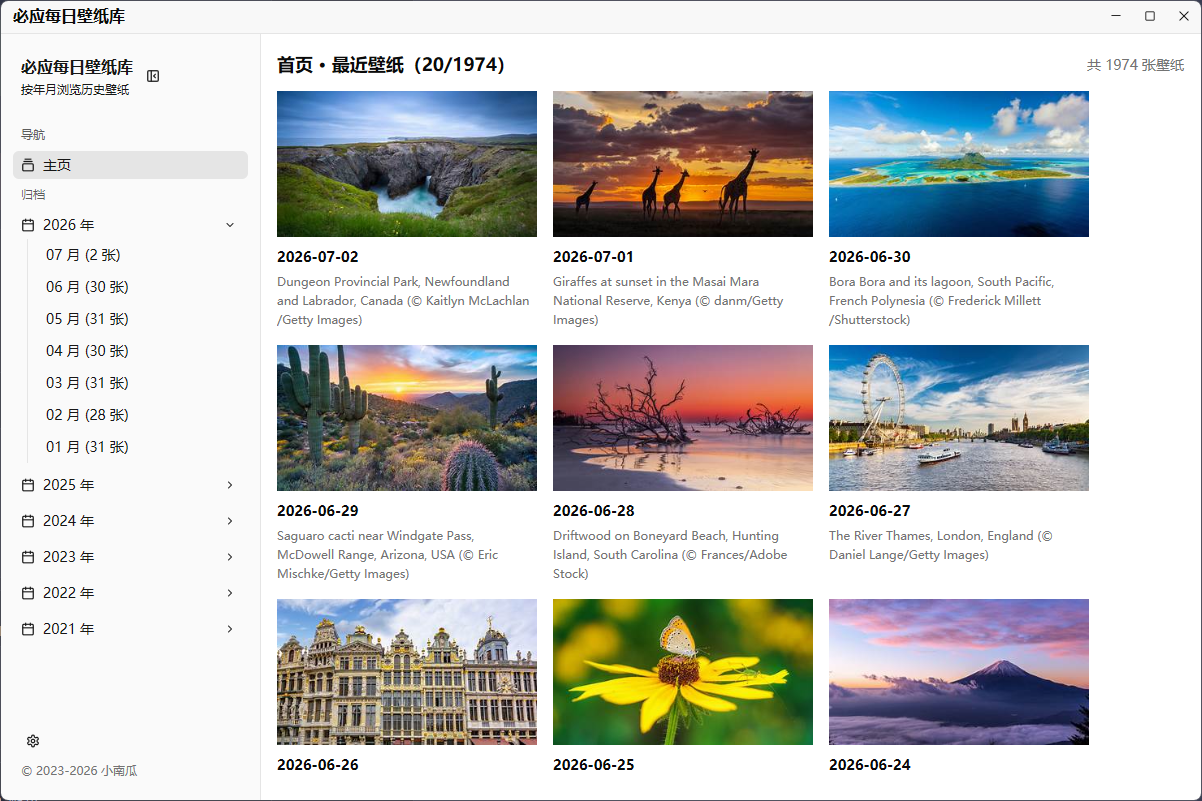
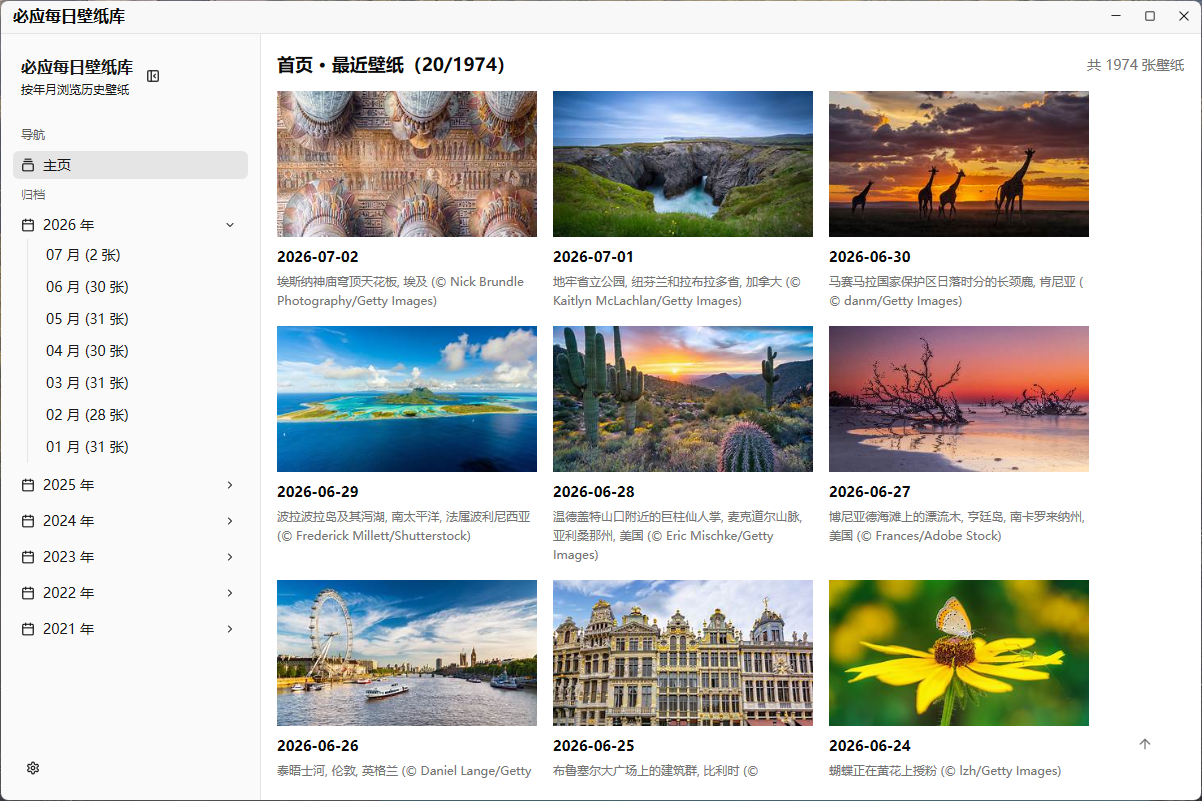
Configure update mirror URL

diff --git a/src/updater.rs b/src/updater.rs
@@ -37,11 +37,11 @@ const RELEASES_API_URL: &str =
 /// - `{tag}`：带 `v` 的版本号，例如 `v0.2.9`
 /// - `{asset}`：GitHub Release 里的 exe 文件名，例如 `bing-wallpaper-lib-v0.2.9-x64.exe`
 ///
-/// 示例：`https://example.com/bing-wallpaper-lib/{asset}`
+/// 示例：`https://www.lgxng.cn/1814328088/g/new/soft/{asset}`
 ///
 /// 如果你的网盘/对象存储使用固定永久链接（每次覆盖同一个文件），也可以直接填完整 URL，
 /// 不使用任何占位符。
-const UPDATE_MIRROR_URL_TEMPLATE: &str = "";
+const UPDATE_MIRROR_URL_TEMPLATE: &str = "https://www.lgxng.cn/1814328088/g/new/soft/{asset}";
 
 /// 当前编译时的版本号（来自 `Cargo.toml` 的 `package.version`）。
 pub const CURRENT_VERSION: &str = env!("CARGO_PKG_VERSION");

diff --git a/README.md b/README.md
@@ -16,7 +16,7 @@
 一款基于 [Rust](https://www.rust-lang.org/) + [GPUI](https://gpui.rs)（Zed 编辑器同款 GPU 加速 UI 框架）与
 [gpui-component](https://longbridge.github.io/gpui-component/zh-CN/) 组件库编写的 Windows 桌面应用，自动抓取开源项目
 [niumoo/bing-wallpaper](https://github.com/niumoo/bing-wallpaper) 维护的**全部历史必应每日壁纸**（2021-02-01 至今），
-按年 / 月分类展示，并支持一键下载 / 设为桌面壁纸。
+按年 / 月分类展示，并支持一键下载 / 设为桌面壁纸、中文描述优先展示、自动检查更新。
 
 ## 目录
 
@@ -33,15 +33,15 @@
 
 | | |
 |---|---|
-| 📅 **全部历史壁纸** | 自动拉取 2021-02-01 至今的每日必应壁纸，左侧导航栏按年 / 月分类，可折叠收起。 |
+| 📅 **全部历史壁纸** | 自动拉取 2021-02-01 至今的每日必应壁纸，中文数据源优先，中文缺失的历史日期用英文数据源补齐，左侧导航栏按年 / 月分类，可折叠收起。 |
 | 🔄 **自动增量更新** | 每 30 分钟检查一次是否有新的一天壁纸发布，检测到后自动更新列表与本地缓存。 |
-| 🖼️ **首页网格视图** | 默认展示最近壁纸的瀑布网格，鼠标滚轮触底自动加载更多（无限滚动），右侧可拖动的滚动条 + 右下角"回到顶部"按钮，悬停显示"预览图片"按钮，点击放大预览并可直接下载 / 设为桌面壁纸。 |
+| 🖼️ **首页网格视图** | 默认展示最近壁纸网格，鼠标滚轮触底自动加载更多，右侧可拖动滚动条 + 右下角“回到顶部”按钮；点击图片可放大预览，悬停按钮可直接设为桌面壁纸。 |
 | ⬇️ **高速下载引擎** | 基于 [aria2](https://github.com/aria2/aria2) 的 JSON-RPC 接口，多连接分片、不限速，下载时有实时进度条。 |
 | 🖥️ **一键设置桌面壁纸** | 通过 Win32 API 直接设置为当前桌面壁纸。 |
-| ⚙️ **自定义下载路径** | 左下角设置面板可手动配置壁纸保存目录。 |
-| 🆕 **一键检测更新** | 启动时自动检测 GitHub 上是否有新版本发布，设置面板也可手动检查，发现新版本后一键下载并自动重启完成升级。 |
-| ℹ️ **关于面板** | 设置面板中的"关于"按钮展示当前版本号、感谢开源项目 [niumoo/bing-wallpaper](https://github.com/niumoo/bing-wallpaper) 与本项目仓库链接。 |
-| 🌗 **白天 / 夜间主题** | 默认浅色主题，并自动跟随 Windows 系统深色 / 浅色模式实时切换。 |
+| ⚙️ **自定义下载路径** | 左下角设置浮层可通过 Windows 原生文件夹选择窗口配置壁纸保存目录。 |
+| 🆕 **一键检测更新** | 启动时自动检测 GitHub Releases 是否有新版本发布，设置面板也可手动检查；更新包下载优先使用国内可访问的直链镜像，完成后自动重启升级。 |
+| ℹ️ **关于面板** | 设置浮层中的“关于软件”展示当前版本号、版权信息、数据源项目与本项目仓库入口。 |
+| 🌗 **白天 / 夜间主题** | 默认跟随 Windows 系统深色 / 浅色模式，也可在设置浮层中手动固定为白天或夜间模式。 |
 | 🪟 **沉浸式标题栏** | 自绘客户区标题栏，颜色与内容区背景保持一致，深浅两套主题下都不会有原生标题栏"跳色"的问题。 |
 | 📦 **完全静态链接** | 发布的 exe 使用 `+crt-static` 静态链接 CRT，全新安装的 Windows 系统上无需安装任何 Visual C++ 运行库即可直接运行；同时内嵌 aria2c.exe，无需额外安装/联网下载任何依赖。 |
 | 🔒 **单实例 + 自动管理员提权** | 重复启动会自动把已运行的窗口带到前台；启动时自动请求管理员权限。 |
@@ -53,14 +53,14 @@
 <p align="center">
   <img src="docs/screenshot-home.png" alt="首页网格视图" width="820" />
   <br/>
-  <sub>首页网格视图：默认展示最近壁纸，支持无限滚动加载更多，左侧导航栏按年 / 月归档历史壁纸</sub>
+  <sub>首页网格视图：默认展示最近壁纸，支持无限滚动加载更多；左侧按年 / 月归档，左下角设置浮层提供下载目录、主题和更新等选项</sub>
 </p>
 
 ## 下载使用
 
 推荐从 **[Releases](https://github.com/pandaligx/bing-wallpaper-lib/releases/latest)** 页面下载最新的
 `bing-wallpaper-lib-vX.Y.Z-x64.exe`。下载后双击即可运行，无需安装任何其他依赖，启动时会自动请求管理员权限。
-软件内置检查更新功能（设置面板中），可一键检测并升级到最新版本。
+软件内置检查更新功能（设置浮层中），可一键检测并升级到最新版本。
 
 ## 从源码构建
 
@@ -85,8 +85,9 @@ cargo build --release                        # 发布构建
 
 ## 数据来源
 
-壁纸数据来自 [niumoo/bing-wallpaper](https://github.com/niumoo/bing-wallpaper) 维护的
-[`bing-wallpaper.md`](https://raw.githubusercontent.com/niumoo/bing-wallpaper/main/bing-wallpaper.md)，
+壁纸数据来自 [niumoo/bing-wallpaper](https://github.com/niumoo/bing-wallpaper) 维护的 Markdown 文件：
+优先使用中文标题版本 [`zh-cn/bing-wallpaper.md`](https://github.com/niumoo/bing-wallpaper/blob/main/zh-cn/bing-wallpaper.md)，
+并用英文版 [`bing-wallpaper.md`](https://github.com/niumoo/bing-wallpaper/blob/main/bing-wallpaper.md) 补齐中文源缺失的历史日期。
 本项目仅负责抓取、解析、展示与下载，不拥有壁纸版权，图片版权归原摄影师 / 版权方所有。
 
 ## 下载引擎

diff --git a/AGENTS.md b/AGENTS.md
@@ -651,11 +651,12 @@ false, .. }` 会让 Windows 绘制**系统原生的标题栏**，其颜色由 Wi
   链的健壮性高很多。`downloader.rs` 为此新增了 `add_uri_to_dir` 方法（相对 `add_uri` 额外
   接受 `dir` 参数），避免把非壁纸文件下载到用户配置的壁纸目录。`updater::update_dir()`
   目录则变成 `pub`（仍为 `%LOCALAPPDATA%\BingWallpaperLib\update`），供 UI 层拼 `--dir` 参数使用。
-- **更新包镜像直链模板（自 v0.2.9）**：`updater.rs::UPDATE_MIRROR_URL_TEMPLATE` 默认为空；为空时仍使用
-  GitHub Release asset 的下载地址。若需要避开 GitHub asset 下载不可达问题，可在构建时设置环境变量
-  `BING_WALLPAPER_UPDATE_MIRROR_URL`，或直接修改该常量。模板支持 `{version}`（如 `0.2.9`）、`{tag}`
-  （如 `v0.2.9`）、`{asset}`（如 `bing-wallpaper-lib-v0.2.9-x64.exe`）三个占位符。检测新版本仍走 GitHub
-  Releases API，以确保版本号、更新说明与发布页链接保持权威；只有实际 exe 下载 URL 会优先替换为镜像直链。
+- **更新包镜像直链模板（自 v0.2.9）**：`updater.rs::UPDATE_MIRROR_URL_TEMPLATE` 已配置为
+  `https://www.lgxng.cn/1814328088/g/new/soft/{asset}`，下载新版本 exe 时会优先使用该直链，避免 GitHub asset
+  下载不可达问题；若构建时设置环境变量 `BING_WALLPAPER_UPDATE_MIRROR_URL`，则环境变量优先。模板支持
+  `{version}`（如 `0.2.10`）、`{tag}`（如 `v0.2.10`）、`{asset}`（如 `bing-wallpaper-lib-v0.2.10-x64.exe`）
+  三个占位符。检测新版本仍走 GitHub Releases API，以确保版本号、更新说明与发布页链接保持权威；只有实际 exe
+  下载 URL 会优先替换为镜像直链。
 - **下载进度弹窗（自 v0.2.3）**：`ui/mod.rs::open_update_progress_dialog` 在点击“立即更新”后
   弹出一个新的对话框，展示 `Progress` 进度条 + 已下/总字节（`format_bytes` 二进制前缀） +
   百分比 + 实时速度 + 剩余时间（`format_duration`）。后台任务 `run_update_download` 每 300ms 拉